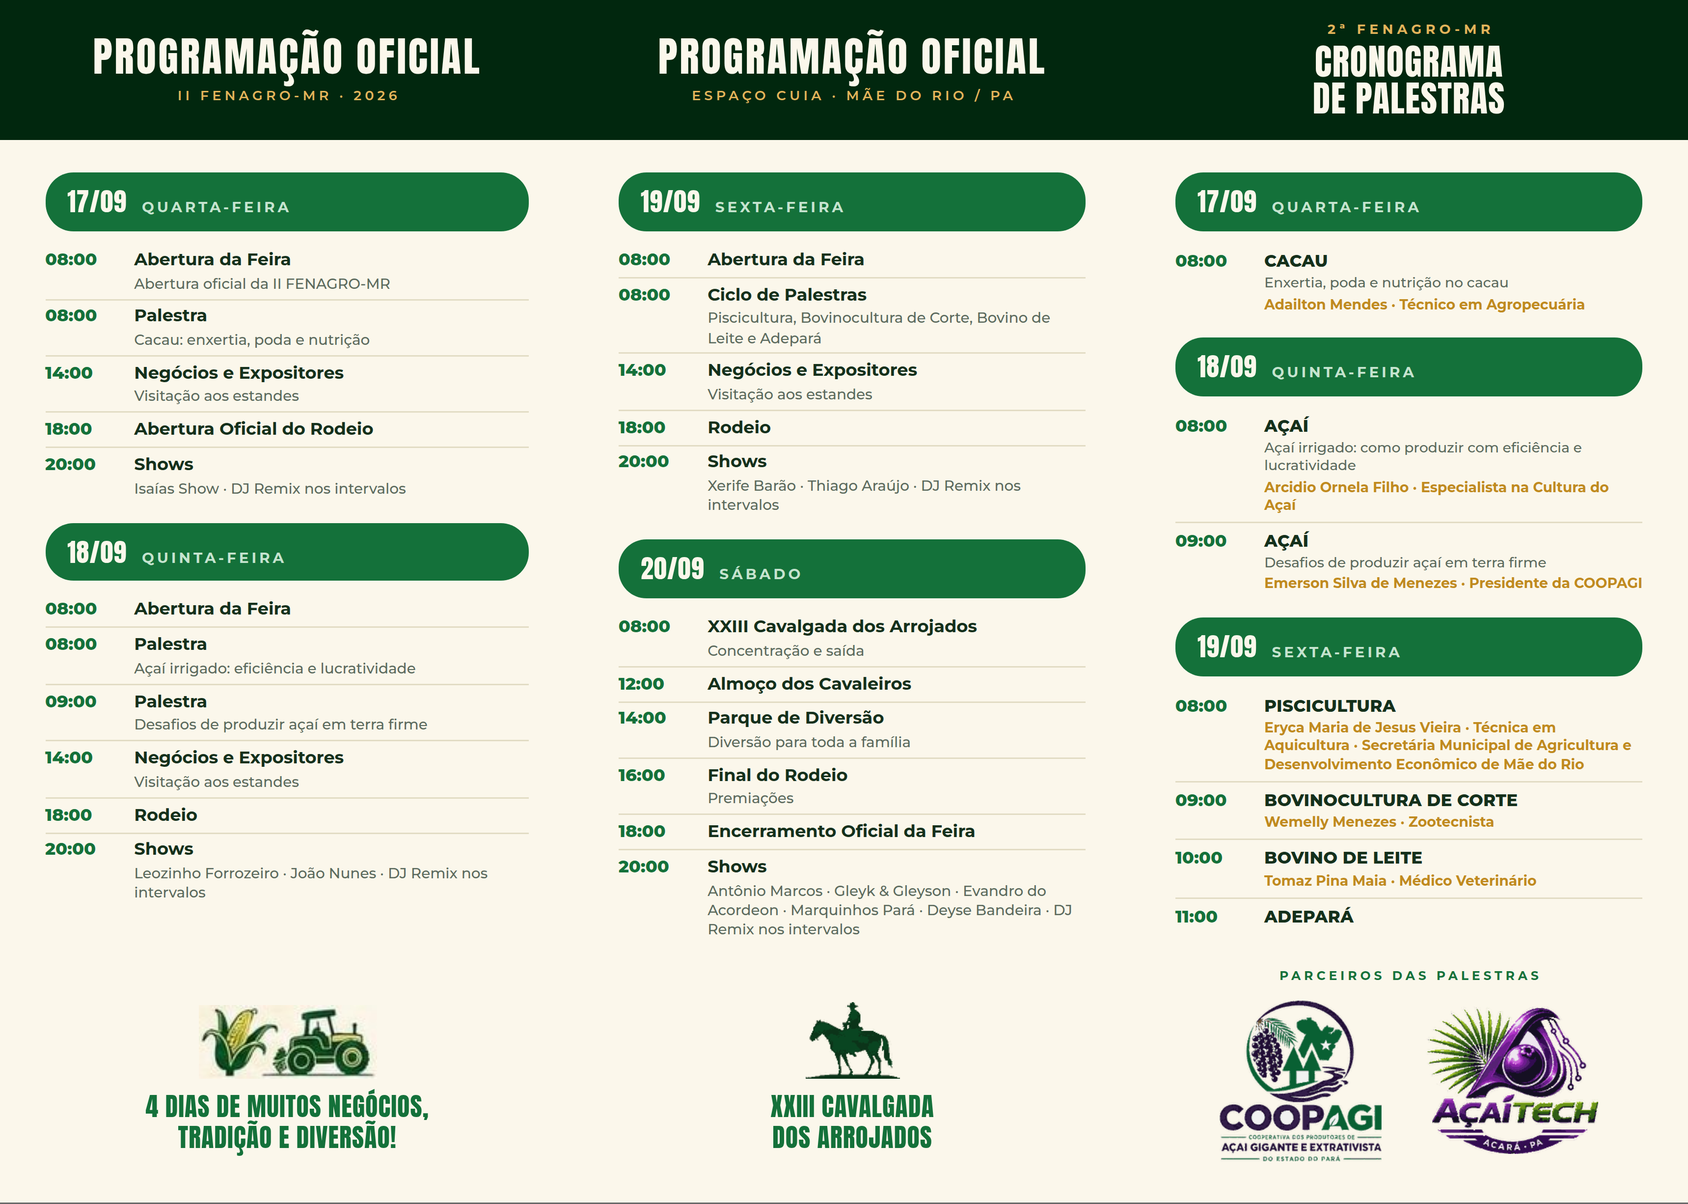
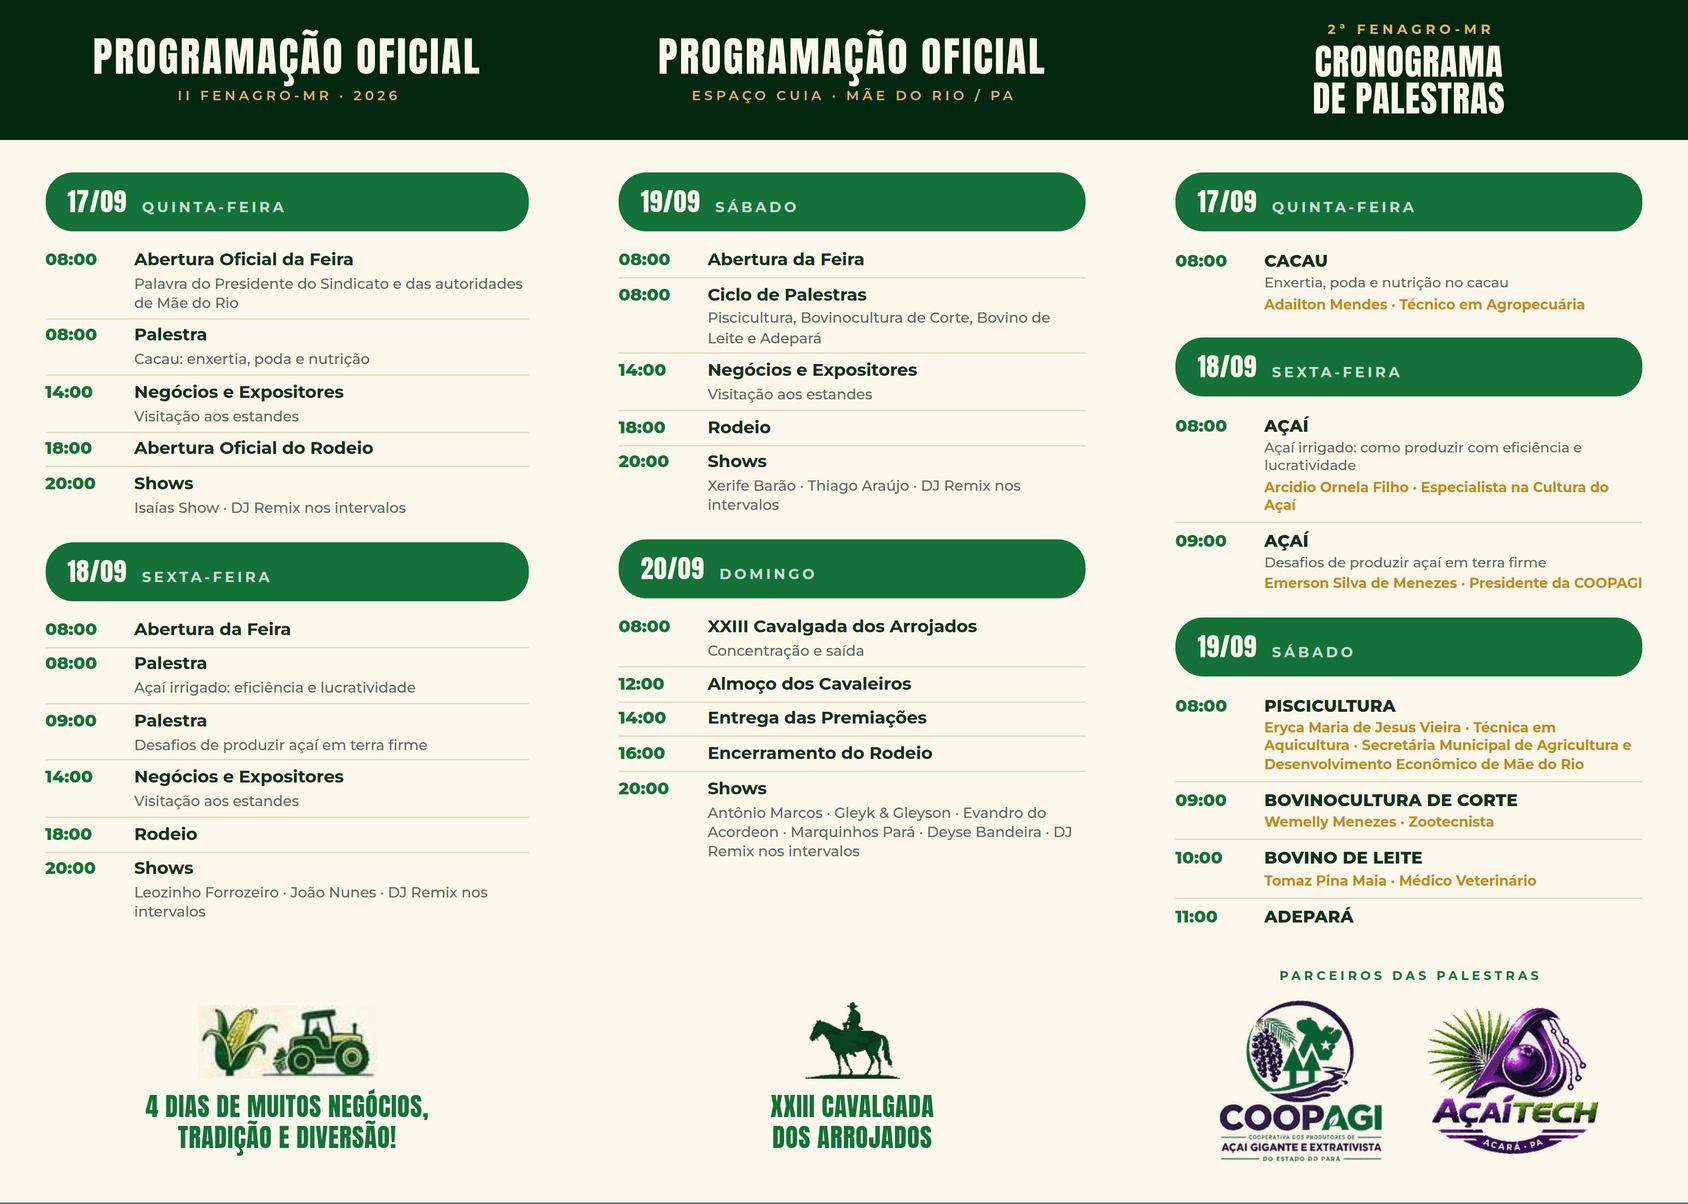
Corrige os dias da semana e a programação de domingo
- 17/09 passa a ser quinta-feira, deslocando os demais dias até domingo (20/09)
- Abertura do dia 17 traz a palavra do presidente do sindicato e das
  autoridades de Mãe do Rio
- Domingo segue a sequência cavalgada, almoço, entrega das premiações,
  encerramento do rodeio e shows

Claude-Session: https://claude.ai/code/session_01WZ2JVyz6fkCPxE73BoZuAB

diff --git a/fenagro/folder-fenagro.html b/fenagro/folder-fenagro.html
@@ -481,7 +481,7 @@ body {
         <div class="sec-title">ATRA&Ccedil;&Otilde;ES<br>CONFIRMADAS</div>
         <div class="sec-sub">SHOWS TODAS AS NOITES &middot; 20H</div>
       </div>
-      <div class="act"><div class="act-pill">17/09 <span>&middot; QUARTA</span></div><div class="act-list"><div class="act-name">Isa&iacute;as Show</div><div class="act-tag">DJ REMIX NOS INTERVALOS</div></div></div><div class="act"><div class="act-pill">18/09 <span>&middot; QUINTA</span></div><div class="act-list"><div class="act-name">Leozinho Forrozeiro</div><div class="act-name">Jo&atilde;o Nunes</div><div class="act-tag">DJ REMIX NOS INTERVALOS</div></div></div><div class="act"><div class="act-pill">19/09 <span>&middot; SEXTA</span></div><div class="act-list"><div class="act-name">Xerife Bar&atilde;o</div><div class="act-name">Thiago Ara&uacute;jo</div><div class="act-tag">DJ REMIX NOS INTERVALOS</div></div></div><div class="act"><div class="act-pill">20/09 <span>&middot; S&Aacute;BADO</span></div><div class="act-list"><div class="act-name">Ant&ocirc;nio Marcos</div><div class="act-name">Gleyk &amp; Gleyson</div><div class="act-name">Evandro do Acordeon</div><div class="act-name">Marquinhos Par&aacute;</div><div class="act-name">Deyse Bandeira</div><div class="act-tag">DJ REMIX NOS INTERVALOS</div></div></div>
+      <div class="act"><div class="act-pill">17/09 <span>&middot; QUINTA</span></div><div class="act-list"><div class="act-name">Isa&iacute;as Show</div><div class="act-tag">DJ REMIX NOS INTERVALOS</div></div></div><div class="act"><div class="act-pill">18/09 <span>&middot; SEXTA</span></div><div class="act-list"><div class="act-name">Leozinho Forrozeiro</div><div class="act-name">Jo&atilde;o Nunes</div><div class="act-tag">DJ REMIX NOS INTERVALOS</div></div></div><div class="act"><div class="act-pill">19/09 <span>&middot; S&Aacute;BADO</span></div><div class="act-list"><div class="act-name">Xerife Bar&atilde;o</div><div class="act-name">Thiago Ara&uacute;jo</div><div class="act-tag">DJ REMIX NOS INTERVALOS</div></div></div><div class="act"><div class="act-pill">20/09 <span>&middot; DOMINGO</span></div><div class="act-list"><div class="act-name">Ant&ocirc;nio Marcos</div><div class="act-name">Gleyk &amp; Gleyson</div><div class="act-name">Evandro do Acordeon</div><div class="act-name">Marquinhos Par&aacute;</div><div class="act-name">Deyse Bandeira</div><div class="act-tag">DJ REMIX NOS INTERVALOS</div></div></div>
     </div>
   </div>
 
@@ -541,8 +541,8 @@ body {
         <div class="band-title">PROGRAMA&Ccedil;&Atilde;O OFICIAL</div>
         <div class="band-sub">II FENAGRO-MR &middot; 2026</div>
       </div>
-      <div class="day"><div class="day-pill"><span class="day-date">17/09</span><span class="day-week">QUARTA-FEIRA</span></div><div class="row"><span class="row-time">08:00</span><span class="row-body"><span class="row-title">Abertura da Feira</span><span class="row-sub">Abertura oficial da II FENAGRO-MR</span></span></div><div class="row"><span class="row-time">08:00</span><span class="row-body"><span class="row-title">Palestra</span><span class="row-sub">Cacau: enxertia, poda e nutri&ccedil;&atilde;o</span></span></div><div class="row"><span class="row-time">14:00</span><span class="row-body"><span class="row-title">Neg&oacute;cios e Expositores</span><span class="row-sub">Visita&ccedil;&atilde;o aos estandes</span></span></div><div class="row"><span class="row-time">18:00</span><span class="row-body"><span class="row-title">Abertura Oficial do Rodeio</span></span></div><div class="row"><span class="row-time">20:00</span><span class="row-body"><span class="row-title">Shows</span><span class="row-sub">Isa&iacute;as Show &middot; DJ Remix nos intervalos</span></span></div></div>
-      <div class="day"><div class="day-pill"><span class="day-date">18/09</span><span class="day-week">QUINTA-FEIRA</span></div><div class="row"><span class="row-time">08:00</span><span class="row-body"><span class="row-title">Abertura da Feira</span></span></div><div class="row"><span class="row-time">08:00</span><span class="row-body"><span class="row-title">Palestra</span><span class="row-sub">A&ccedil;a&iacute; irrigado: efici&ecirc;ncia e lucratividade</span></span></div><div class="row"><span class="row-time">09:00</span><span class="row-body"><span class="row-title">Palestra</span><span class="row-sub">Desafios de produzir a&ccedil;a&iacute; em terra firme</span></span></div><div class="row"><span class="row-time">14:00</span><span class="row-body"><span class="row-title">Neg&oacute;cios e Expositores</span><span class="row-sub">Visita&ccedil;&atilde;o aos estandes</span></span></div><div class="row"><span class="row-time">18:00</span><span class="row-body"><span class="row-title">Rodeio</span></span></div><div class="row"><span class="row-time">20:00</span><span class="row-body"><span class="row-title">Shows</span><span class="row-sub">Leozinho Forrozeiro &middot; Jo&atilde;o Nunes &middot; DJ Remix nos intervalos</span></span></div></div>
+      <div class="day"><div class="day-pill"><span class="day-date">17/09</span><span class="day-week">QUINTA-FEIRA</span></div><div class="row"><span class="row-time">08:00</span><span class="row-body"><span class="row-title">Abertura Oficial da Feira</span><span class="row-sub">Palavra do Presidente do Sindicato e das autoridades de M&atilde;e do Rio</span></span></div><div class="row"><span class="row-time">08:00</span><span class="row-body"><span class="row-title">Palestra</span><span class="row-sub">Cacau: enxertia, poda e nutri&ccedil;&atilde;o</span></span></div><div class="row"><span class="row-time">14:00</span><span class="row-body"><span class="row-title">Neg&oacute;cios e Expositores</span><span class="row-sub">Visita&ccedil;&atilde;o aos estandes</span></span></div><div class="row"><span class="row-time">18:00</span><span class="row-body"><span class="row-title">Abertura Oficial do Rodeio</span></span></div><div class="row"><span class="row-time">20:00</span><span class="row-body"><span class="row-title">Shows</span><span class="row-sub">Isa&iacute;as Show &middot; DJ Remix nos intervalos</span></span></div></div>
+      <div class="day"><div class="day-pill"><span class="day-date">18/09</span><span class="day-week">SEXTA-FEIRA</span></div><div class="row"><span class="row-time">08:00</span><span class="row-body"><span class="row-title">Abertura da Feira</span></span></div><div class="row"><span class="row-time">08:00</span><span class="row-body"><span class="row-title">Palestra</span><span class="row-sub">A&ccedil;a&iacute; irrigado: efici&ecirc;ncia e lucratividade</span></span></div><div class="row"><span class="row-time">09:00</span><span class="row-body"><span class="row-title">Palestra</span><span class="row-sub">Desafios de produzir a&ccedil;a&iacute; em terra firme</span></span></div><div class="row"><span class="row-time">14:00</span><span class="row-body"><span class="row-title">Neg&oacute;cios e Expositores</span><span class="row-sub">Visita&ccedil;&atilde;o aos estandes</span></span></div><div class="row"><span class="row-time">18:00</span><span class="row-body"><span class="row-title">Rodeio</span></span></div><div class="row"><span class="row-time">20:00</span><span class="row-body"><span class="row-title">Shows</span><span class="row-sub">Leozinho Forrozeiro &middot; Jo&atilde;o Nunes &middot; DJ Remix nos intervalos</span></span></div></div>
       <div class="orn">
[1 lines of base64/hex data omitted]
         <div class="orn-text">4 DIAS DE MUITOS NEG&Oacute;CIOS,<br>TRADI&Ccedil;&Atilde;O E DIVERS&Atilde;O!</div>
@@ -556,8 +556,8 @@ body {
         <div class="band-title">PROGRAMA&Ccedil;&Atilde;O OFICIAL</div>
         <div class="band-sub">ESPA&Ccedil;O CUIA &middot; M&Atilde;E DO RIO / PA</div>
       </div>
-      <div class="day"><div class="day-pill"><span class="day-date">19/09</span><span class="day-week">SEXTA-FEIRA</span></div><div class="row"><span class="row-time">08:00</span><span class="row-body"><span class="row-title">Abertura da Feira</span></span></div><div class="row"><span class="row-time">08:00</span><span class="row-body"><span class="row-title">Ciclo de Palestras</span><span class="row-sub">Piscicultura, Bovinocultura de Corte, Bovino de Leite e Adepar&aacute;</span></span></div><div class="row"><span class="row-time">14:00</span><span class="row-body"><span class="row-title">Neg&oacute;cios e Expositores</span><span class="row-sub">Visita&ccedil;&atilde;o aos estandes</span></span></div><div class="row"><span class="row-time">18:00</span><span class="row-body"><span class="row-title">Rodeio</span></span></div><div class="row"><span class="row-time">20:00</span><span class="row-body"><span class="row-title">Shows</span><span class="row-sub">Xerife Bar&atilde;o &middot; Thiago Ara&uacute;jo &middot; DJ Remix nos intervalos</span></span></div></div>
-      <div class="day"><div class="day-pill"><span class="day-date">20/09</span><span class="day-week">S&Aacute;BADO</span></div><div class="row"><span class="row-time">08:00</span><span class="row-body"><span class="row-title">XXIII Cavalgada dos Arrojados</span><span class="row-sub">Concentra&ccedil;&atilde;o e sa&iacute;da</span></span></div><div class="row"><span class="row-time">12:00</span><span class="row-body"><span class="row-title">Almo&ccedil;o dos Cavaleiros</span></span></div><div class="row"><span class="row-time">14:00</span><span class="row-body"><span class="row-title">Parque de Divers&atilde;o</span><span class="row-sub">Divers&atilde;o para toda a fam&iacute;lia</span></span></div><div class="row"><span class="row-time">16:00</span><span class="row-body"><span class="row-title">Final do Rodeio</span><span class="row-sub">Premia&ccedil;&otilde;es</span></span></div><div class="row"><span class="row-time">18:00</span><span class="row-body"><span class="row-title">Encerramento Oficial da Feira</span></span></div><div class="row"><span class="row-time">20:00</span><span class="row-body"><span class="row-title">Shows</span><span class="row-sub">Ant&ocirc;nio Marcos &middot; Gleyk &amp; Gleyson &middot; Evandro do Acordeon &middot; Marquinhos Par&aacute; &middot; Deyse Bandeira &middot; DJ Remix nos intervalos</span></span></div></div>
+      <div class="day"><div class="day-pill"><span class="day-date">19/09</span><span class="day-week">S&Aacute;BADO</span></div><div class="row"><span class="row-time">08:00</span><span class="row-body"><span class="row-title">Abertura da Feira</span></span></div><div class="row"><span class="row-time">08:00</span><span class="row-body"><span class="row-title">Ciclo de Palestras</span><span class="row-sub">Piscicultura, Bovinocultura de Corte, Bovino de Leite e Adepar&aacute;</span></span></div><div class="row"><span class="row-time">14:00</span><span class="row-body"><span class="row-title">Neg&oacute;cios e Expositores</span><span class="row-sub">Visita&ccedil;&atilde;o aos estandes</span></span></div><div class="row"><span class="row-time">18:00</span><span class="row-body"><span class="row-title">Rodeio</span></span></div><div class="row"><span class="row-time">20:00</span><span class="row-body"><span class="row-title">Shows</span><span class="row-sub">Xerife Bar&atilde;o &middot; Thiago Ara&uacute;jo &middot; DJ Remix nos intervalos</span></span></div></div>
+      <div class="day"><div class="day-pill"><span class="day-date">20/09</span><span class="day-week">DOMINGO</span></div><div class="row"><span class="row-time">08:00</span><span class="row-body"><span class="row-title">XXIII Cavalgada dos Arrojados</span><span class="row-sub">Concentra&ccedil;&atilde;o e sa&iacute;da</span></span></div><div class="row"><span class="row-time">12:00</span><span class="row-body"><span class="row-title">Almo&ccedil;o dos Cavaleiros</span></span></div><div class="row"><span class="row-time">14:00</span><span class="row-body"><span class="row-title">Entrega das Premia&ccedil;&otilde;es</span></span></div><div class="row"><span class="row-time">16:00</span><span class="row-body"><span class="row-title">Encerramento do Rodeio</span></span></div><div class="row"><span class="row-time">20:00</span><span class="row-body"><span class="row-title">Shows</span><span class="row-sub">Ant&ocirc;nio Marcos &middot; Gleyk &amp; Gleyson &middot; Evandro do Acordeon &middot; Marquinhos Par&aacute; &middot; Deyse Bandeira &middot; DJ Remix nos intervalos</span></span></div></div>
       <div class="orn">
[1 lines of base64/hex data omitted]
         <div class="orn-text">XXIII CAVALGADA<br>DOS ARROJADOS</div>
@@ -571,7 +571,7 @@ body {
         <div class="hero-eyebrow">2&ordf; FENAGRO-MR</div>
         <div class="hero-title">CRONOGRAMA<br>DE PALESTRAS</div>
       </div>
-      <div class="talks"><div class="talk-day"><div class="day-pill"><span class="day-date">17/09</span><span class="day-week">QUARTA-FEIRA</span></div><div class="talk"><span class="talk-time">08:00</span><span class="talk-body"><span class="talk-title">CACAU</span><span class="talk-theme">Enxertia, poda e nutri&ccedil;&atilde;o no cacau</span><span class="talk-who">Adailton Mendes &middot; T&eacute;cnico em Agropecu&aacute;ria</span></span></div></div><div class="talk-day"><div class="day-pill"><span class="day-date">18/09</span><span class="day-week">QUINTA-FEIRA</span></div><div class="talk"><span class="talk-time">08:00</span><span class="talk-body"><span class="talk-title">A&Ccedil;A&Iacute;</span><span class="talk-theme">A&ccedil;a&iacute; irrigado: como produzir com efici&ecirc;ncia e lucratividade</span><span class="talk-who">Arcidio Ornela Filho &middot; Especialista na Cultura do A&ccedil;a&iacute;</span></span></div><div class="talk"><span class="talk-time">09:00</span><span class="talk-body"><span class="talk-title">A&Ccedil;A&Iacute;</span><span class="talk-theme">Desafios de produzir a&ccedil;a&iacute; em terra firme</span><span class="talk-who">Emerson Silva de Menezes &middot; Presidente da COOPAGI</span></span></div></div><div class="talk-day"><div class="day-pill"><span class="day-date">19/09</span><span class="day-week">SEXTA-FEIRA</span></div><div class="talk"><span class="talk-time">08:00</span><span class="talk-body"><span class="talk-title">PISCICULTURA</span><span class="talk-who">Eryca Maria de Jesus Vieira &middot; T&eacute;cnica em Aquicultura &middot; Secret&aacute;ria Municipal de Agricultura e Desenvolvimento Econ&ocirc;mico de M&atilde;e do Rio</span></span></div><div class="talk"><span class="talk-time">09:00</span><span class="talk-body"><span class="talk-title">BOVINOCULTURA DE CORTE</span><span class="talk-who">Wemelly Menezes &middot; Zootecnista</span></span></div><div class="talk"><span class="talk-time">10:00</span><span class="talk-body"><span class="talk-title">BOVINO DE LEITE</span><span class="talk-who">Tomaz Pina Maia &middot; M&eacute;dico Veterin&aacute;rio</span></span></div><div class="talk"><span class="talk-time">11:00</span><span class="talk-body"><span class="talk-title">ADEPAR&Aacute;</span></span></div></div></div>
+      <div class="talks"><div class="talk-day"><div class="day-pill"><span class="day-date">17/09</span><span class="day-week">QUINTA-FEIRA</span></div><div class="talk"><span class="talk-time">08:00</span><span class="talk-body"><span class="talk-title">CACAU</span><span class="talk-theme">Enxertia, poda e nutri&ccedil;&atilde;o no cacau</span><span class="talk-who">Adailton Mendes &middot; T&eacute;cnico em Agropecu&aacute;ria</span></span></div></div><div class="talk-day"><div class="day-pill"><span class="day-date">18/09</span><span class="day-week">SEXTA-FEIRA</span></div><div class="talk"><span class="talk-time">08:00</span><span class="talk-body"><span class="talk-title">A&Ccedil;A&Iacute;</span><span class="talk-theme">A&ccedil;a&iacute; irrigado: como produzir com efici&ecirc;ncia e lucratividade</span><span class="talk-who">Arcidio Ornela Filho &middot; Especialista na Cultura do A&ccedil;a&iacute;</span></span></div><div class="talk"><span class="talk-time">09:00</span><span class="talk-body"><span class="talk-title">A&Ccedil;A&Iacute;</span><span class="talk-theme">Desafios de produzir a&ccedil;a&iacute; em terra firme</span><span class="talk-who">Emerson Silva de Menezes &middot; Presidente da COOPAGI</span></span></div></div><div class="talk-day"><div class="day-pill"><span class="day-date">19/09</span><span class="day-week">S&Aacute;BADO</span></div><div class="talk"><span class="talk-time">08:00</span><span class="talk-body"><span class="talk-title">PISCICULTURA</span><span class="talk-who">Eryca Maria de Jesus Vieira &middot; T&eacute;cnica em Aquicultura &middot; Secret&aacute;ria Municipal de Agricultura e Desenvolvimento Econ&ocirc;mico de M&atilde;e do Rio</span></span></div><div class="talk"><span class="talk-time">09:00</span><span class="talk-body"><span class="talk-title">BOVINOCULTURA DE CORTE</span><span class="talk-who">Wemelly Menezes &middot; Zootecnista</span></span></div><div class="talk"><span class="talk-time">10:00</span><span class="talk-body"><span class="talk-title">BOVINO DE LEITE</span><span class="talk-who">Tomaz Pina Maia &middot; M&eacute;dico Veterin&aacute;rio</span></span></div><div class="talk"><span class="talk-time">11:00</span><span class="talk-body"><span class="talk-title">ADEPAR&Aacute;</span></span></div></div></div>
       <div class="parceiros">
         <div class="lbl">PARCEIROS DAS PALESTRAS</div>
         <div class="parceiros-row">

diff --git a/fenagro/build_folder.py b/fenagro/build_folder.py
@@ -40,14 +40,15 @@ IMG = {
 # ---------------------------------------------------------------- conteudo ---
 
 PROGRAMACAO = [
-    ("17/09", "QUARTA-FEIRA", [
-        ("08:00", "Abertura da Feira", "Abertura oficial da II FENAGRO-MR"),
+    ("17/09", "QUINTA-FEIRA", [
+        ("08:00", "Abertura Oficial da Feira",
+         "Palavra do Presidente do Sindicato e das autoridades de M&atilde;e do Rio"),
         ("08:00", "Palestra", "Cacau: enxertia, poda e nutri&ccedil;&atilde;o"),
         ("14:00", "Neg&oacute;cios e Expositores", "Visita&ccedil;&atilde;o aos estandes"),
         ("18:00", "Abertura Oficial do Rodeio", ""),
         ("20:00", "Shows", "Isa&iacute;as Show &middot; DJ Remix nos intervalos"),
     ]),
-    ("18/09", "QUINTA-FEIRA", [
+    ("18/09", "SEXTA-FEIRA", [
         ("08:00", "Abertura da Feira", ""),
         ("08:00", "Palestra", "A&ccedil;a&iacute; irrigado: efici&ecirc;ncia e lucratividade"),
         ("09:00", "Palestra", "Desafios de produzir a&ccedil;a&iacute; em terra firme"),
@@ -55,7 +56,7 @@ PROGRAMACAO = [
         ("18:00", "Rodeio", ""),
         ("20:00", "Shows", "Leozinho Forrozeiro &middot; Jo&atilde;o Nunes &middot; DJ Remix nos intervalos"),
     ]),
-    ("19/09", "SEXTA-FEIRA", [
+    ("19/09", "S&Aacute;BADO", [
         ("08:00", "Abertura da Feira", ""),
         ("08:00", "Ciclo de Palestras",
          "Piscicultura, Bovinocultura de Corte, Bovino de Leite e Adepar&aacute;"),
@@ -63,30 +64,29 @@ PROGRAMACAO = [
         ("18:00", "Rodeio", ""),
         ("20:00", "Shows", "Xerife Bar&atilde;o &middot; Thiago Ara&uacute;jo &middot; DJ Remix nos intervalos"),
     ]),
-    ("20/09", "S&Aacute;BADO", [
+    ("20/09", "DOMINGO", [
         ("08:00", "XXIII Cavalgada dos Arrojados", "Concentra&ccedil;&atilde;o e sa&iacute;da"),
         ("12:00", "Almo&ccedil;o dos Cavaleiros", ""),
-        ("14:00", "Parque de Divers&atilde;o", "Divers&atilde;o para toda a fam&iacute;lia"),
-        ("16:00", "Final do Rodeio", "Premia&ccedil;&otilde;es"),
-        ("18:00", "Encerramento Oficial da Feira", ""),
+        ("14:00", "Entrega das Premia&ccedil;&otilde;es", ""),
+        ("16:00", "Encerramento do Rodeio", ""),
         ("20:00", "Shows", "Ant&ocirc;nio Marcos &middot; Gleyk &amp; Gleyson &middot; Evandro do Acordeon "
                            "&middot; Marquinhos Par&aacute; &middot; Deyse Bandeira &middot; DJ Remix nos intervalos"),
     ]),
 ]
 
 PALESTRAS = [
-    ("17/09", "QUARTA-FEIRA", [
+    ("17/09", "QUINTA-FEIRA", [
         ("08:00", "CACAU", "Enxertia, poda e nutri&ccedil;&atilde;o no cacau",
          "Adailton Mendes", "T&eacute;cnico em Agropecu&aacute;ria"),
     ]),
-    ("18/09", "QUINTA-FEIRA", [
+    ("18/09", "SEXTA-FEIRA", [
         ("08:00", "A&Ccedil;A&Iacute;",
          "A&ccedil;a&iacute; irrigado: como produzir com efici&ecirc;ncia e lucratividade",
          "Arcidio Ornela Filho", "Especialista na Cultura do A&ccedil;a&iacute;"),
         ("09:00", "A&Ccedil;A&Iacute;", "Desafios de produzir a&ccedil;a&iacute; em terra firme",
          "Emerson Silva de Menezes", "Presidente da COOPAGI"),
     ]),
-    ("19/09", "SEXTA-FEIRA", [
+    ("19/09", "S&Aacute;BADO", [
         ("08:00", "PISCICULTURA", "", "Eryca Maria de Jesus Vieira",
          "T&eacute;cnica em Aquicultura &middot; Secret&aacute;ria Municipal de Agricultura "
          "e Desenvolvimento Econ&ocirc;mico de M&atilde;e do Rio"),
@@ -97,10 +97,10 @@ PALESTRAS = [
 ]
 
 ATRACOES = [
-    ("17/09", "QUARTA", ["Isa&iacute;as Show"]),
-    ("18/09", "QUINTA", ["Leozinho Forrozeiro", "Jo&atilde;o Nunes"]),
-    ("19/09", "SEXTA", ["Xerife Bar&atilde;o", "Thiago Ara&uacute;jo"]),
-    ("20/09", "S&Aacute;BADO", ["Ant&ocirc;nio Marcos", "Gleyk &amp; Gleyson",
+    ("17/09", "QUINTA", ["Isa&iacute;as Show"]),
+    ("18/09", "SEXTA", ["Leozinho Forrozeiro", "Jo&atilde;o Nunes"]),
+    ("19/09", "S&Aacute;BADO", ["Xerife Bar&atilde;o", "Thiago Ara&uacute;jo"]),
+    ("20/09", "DOMINGO", ["Ant&ocirc;nio Marcos", "Gleyk &amp; Gleyson",
                                 "Evandro do Acordeon", "Marquinhos Par&aacute;",
                                 "Deyse Bandeira"]),
 ]
